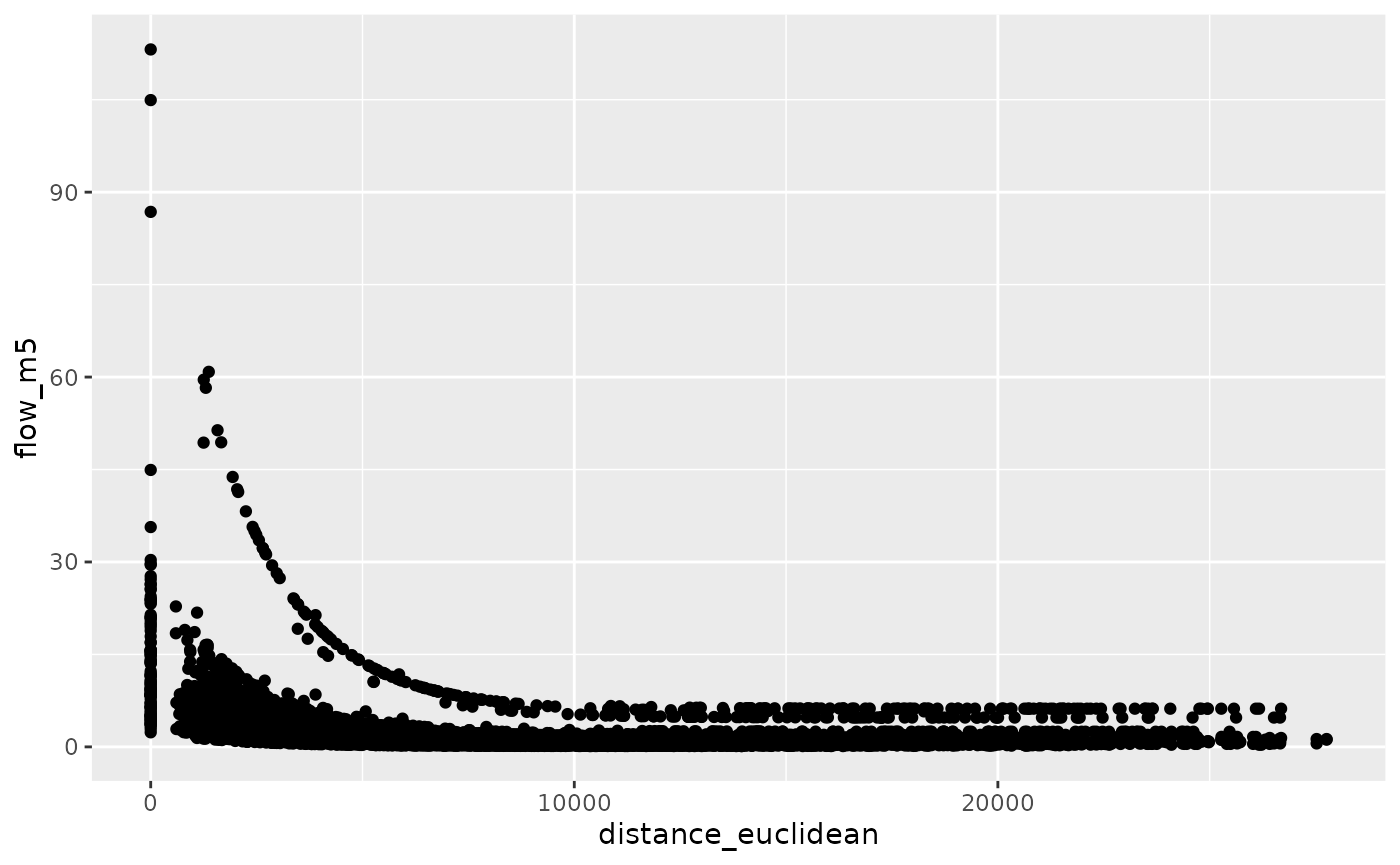
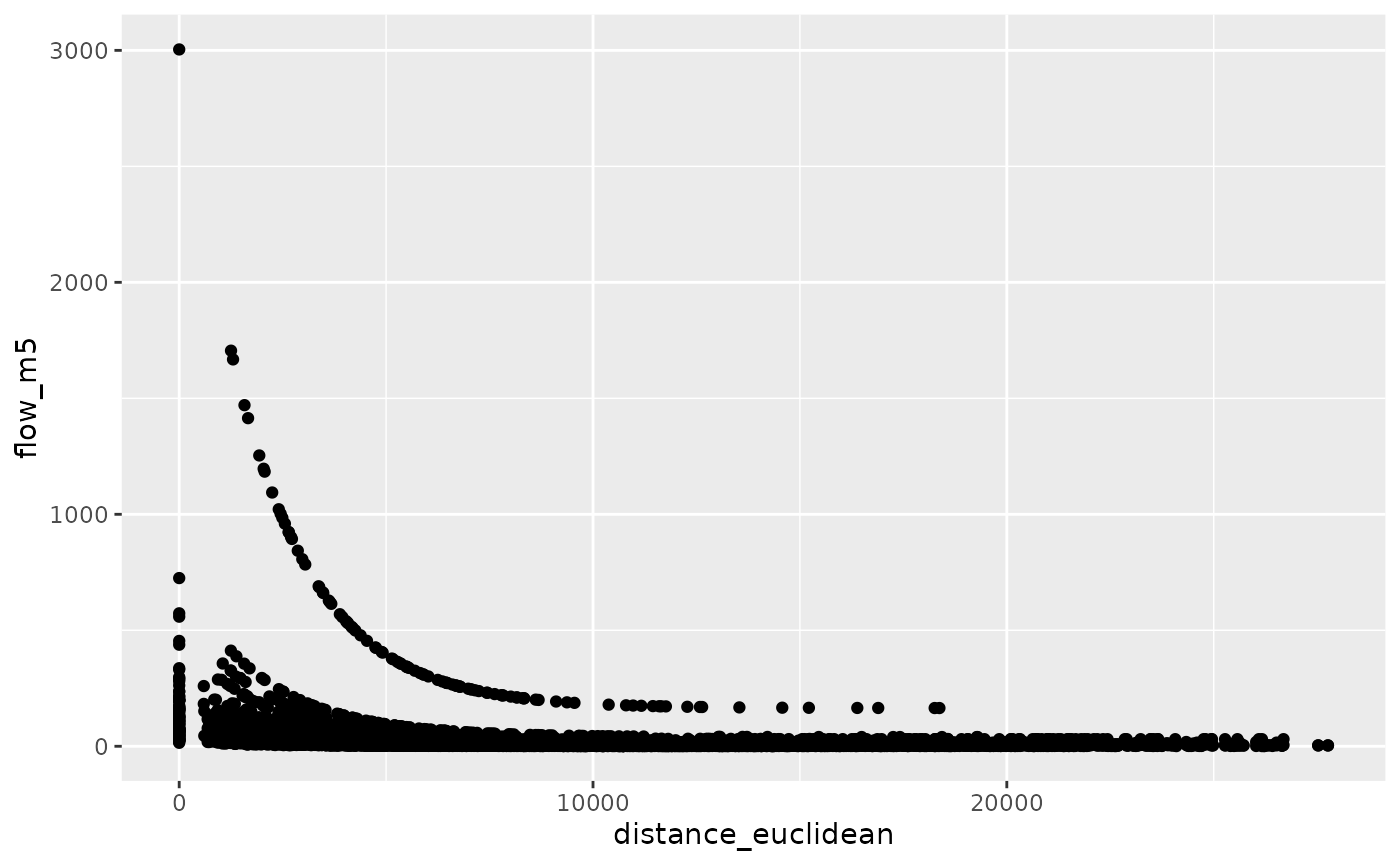
Built site for si: 0.0.3@68bc001
Former-commit-id: 1ae0d053dff3590ec04cf54b03a2589ea6194ce2

diff --git a/articles/validation.html b/articles/validation.html
@@ -253,7 +253,7 @@
 <div class="sourceCode" id="cb18"><pre class="downlit sourceCode r">
 <code class="sourceCode R"><span class="fu"><a href="https://rdrr.io/r/stats/cor.html" class="external-link">cor</a></span><span class="op">(</span><span class="va">od_joined</span><span class="op">$</span><span class="va">all</span>, <span class="va">od_joined</span><span class="op">$</span><span class="va">flow_m3</span>, use <span class="op">=</span> <span class="st">"complete.obs"</span><span class="op">)</span><span class="op">^</span><span class="fl">2</span>
 <span class="co">#&gt; [1] 0.1441077</span></code></pre></div>
-<p>Another approach is with the <code>minpack.lm</code> package:</p>
+<p>Another approach is with the <code>minpack.lm</code> package</p>
 <p>We can make this ‘production constrained’ as follows:</p>
 <div class="sourceCode" id="cb19"><pre class="downlit sourceCode r">
 <code class="sourceCode R"><span class="va">od_joined</span> <span class="op">=</span> <span class="va">od_joined</span> <span class="op"><a href="https://magrittr.tidyverse.org/reference/pipe.html" class="external-link">%&gt;%</a></span> 
@@ -272,10 +272,22 @@
 <span class="co">#&gt; [1] 0.1299208</span>
 <span class="fu"><a href="https://rdrr.io/r/base/sum.html" class="external-link">sum</a></span><span class="op">(</span><span class="va">od_joined</span><span class="op">$</span><span class="va">flow_m4</span><span class="op">)</span>
 <span class="co">#&gt; [1] 20237</span></code></pre></div>
-<p>And ‘attraction constrained’ as follows:</p>
+<p>And ‘attraction constrained’ as follows (first we calculate the number of people arriving at each zone):</p>
 <div class="sourceCode" id="cb22"><pre class="downlit sourceCode r">
-<code class="sourceCode R"><span class="va">od_joined</span> <span class="op">=</span> <span class="va">od_joined</span> <span class="op"><a href="https://magrittr.tidyverse.org/reference/pipe.html" class="external-link">%&gt;%</a></span> 
-  <span class="fu"><a href="../reference/si_predict.html">si_predict</a></span><span class="op">(</span><span class="va">m3</span>, constraint_attraction <span class="op">=</span> <span class="va">destination_all</span>, output_col <span class="op">=</span> <span class="st">"flow_m5"</span><span class="op">)</span>
+<code class="sourceCode R"><span class="va">zones_attraction</span> <span class="op">=</span> <span class="fu"><a href="https://dplyr.tidyverse.org/reference/mutate-joins.html" class="external-link">inner_join</a></span><span class="op">(</span>
+  <span class="va">si_centroids</span>,
+  <span class="va">si_od_census</span> <span class="op"><a href="https://magrittr.tidyverse.org/reference/pipe.html" class="external-link">%&gt;%</a></span> 
+  <span class="fu"><a href="https://dplyr.tidyverse.org/reference/group_by.html" class="external-link">group_by</a></span><span class="op">(</span>geo_code <span class="op">=</span> <span class="va">D</span><span class="op">)</span> <span class="op"><a href="https://magrittr.tidyverse.org/reference/pipe.html" class="external-link">%&gt;%</a></span> 
+  <span class="fu"><a href="https://r-spatial.github.io/sf/reference/tidyverse.html" class="external-link">summarise</a></span><span class="op">(</span>attractiveness <span class="op">=</span> <span class="fu"><a href="https://rdrr.io/r/base/sum.html" class="external-link">sum</a></span><span class="op">(</span><span class="va">all</span><span class="op">)</span><span class="op">)</span>
+<span class="op">)</span>
+<span class="co">#&gt; Joining, by = "geo_code"</span>
+<span class="va">od_attraction</span> <span class="op">=</span> <span class="fu"><a href="../reference/si_to_od.html">si_to_od</a></span><span class="op">(</span>origins <span class="op">=</span> <span class="va">zones_attraction</span>, destinations <span class="op">=</span> <span class="va">zones_attraction</span><span class="op">)</span>
+<span class="va">od_joined_attraction</span> <span class="op">=</span> <span class="fu"><a href="https://dplyr.tidyverse.org/reference/mutate-joins.html" class="external-link">left_join</a></span><span class="op">(</span><span class="va">od_attraction</span>, <span class="va">si_od_census</span><span class="op">)</span> <span class="op"><a href="https://magrittr.tidyverse.org/reference/pipe.html" class="external-link">%&gt;%</a></span> 
+  <span class="fu"><a href="https://dplyr.tidyverse.org/reference/mutate.html" class="external-link">mutate</a></span><span class="op">(</span>all <span class="op">=</span> <span class="fu"><a href="https://dplyr.tidyverse.org/reference/case_when.html" class="external-link">case_when</a></span><span class="op">(</span><span class="fu"><a href="https://rdrr.io/r/base/NA.html" class="external-link">is.na</a></span><span class="op">(</span><span class="va">all</span><span class="op">)</span> <span class="op">~</span> <span class="fl">0</span>, <span class="cn">TRUE</span> <span class="op">~</span> <span class="va">all</span><span class="op">)</span><span class="op">)</span>
+<span class="co">#&gt; Joining, by = c("O", "D")</span>
+
+<span class="va">od_joined</span> <span class="op">=</span> <span class="va">od_joined_attraction</span> <span class="op"><a href="https://magrittr.tidyverse.org/reference/pipe.html" class="external-link">%&gt;%</a></span> 
+  <span class="fu"><a href="../reference/si_predict.html">si_predict</a></span><span class="op">(</span><span class="va">m3</span>, constraint_attraction <span class="op">=</span> <span class="va">destination_attractiveness</span>, output_col <span class="op">=</span> <span class="st">"flow_m5"</span><span class="op">)</span>
 <span class="va">od_joined</span> <span class="op"><a href="https://magrittr.tidyverse.org/reference/pipe.html" class="external-link">%&gt;%</a></span> 
   <span class="fu"><a href="https://ggplot2.tidyverse.org/reference/ggplot.html" class="external-link">ggplot</a></span><span class="op">(</span><span class="fu"><a href="https://ggplot2.tidyverse.org/reference/aes.html" class="external-link">aes</a></span><span class="op">(</span><span class="va">distance_euclidean</span>, <span class="va">flow_m5</span><span class="op">)</span><span class="op">)</span> <span class="op">+</span>
   <span class="fu"><a href="https://ggplot2.tidyverse.org/reference/geom_point.html" class="external-link">geom_point</a></span><span class="op">(</span><span class="op">)</span></code></pre></div>
@@ -287,9 +299,9 @@
 <p><img src="validation_files/figure-html/unnamed-chunk-15-2.png" width="700"></p>
 <div class="sourceCode" id="cb24"><pre class="downlit sourceCode r">
 <code class="sourceCode R"><span class="fu"><a href="https://rdrr.io/r/stats/cor.html" class="external-link">cor</a></span><span class="op">(</span><span class="va">od_joined</span><span class="op">$</span><span class="va">all</span>, <span class="va">od_joined</span><span class="op">$</span><span class="va">flow_m5</span>, use <span class="op">=</span> <span class="st">"complete.obs"</span><span class="op">)</span><span class="op">^</span><span class="fl">2</span>
-<span class="co">#&gt; [1] 0.6217939</span>
+<span class="co">#&gt; [1] 0.7261424</span>
 <span class="fu"><a href="https://rdrr.io/r/base/sum.html" class="external-link">sum</a></span><span class="op">(</span><span class="va">od_joined</span><span class="op">$</span><span class="va">flow_m5</span><span class="op">)</span>
-<span class="co">#&gt; [1] 20237</span>
+<span class="co">#&gt; [1] 236326</span>
 <span class="fu"><a href="https://rdrr.io/r/base/sum.html" class="external-link">sum</a></span><span class="op">(</span><span class="va">od_joined</span><span class="op">$</span><span class="va">all</span><span class="op">)</span>
 <span class="co">#&gt; [1] 236326</span></code></pre></div>
 </div>
